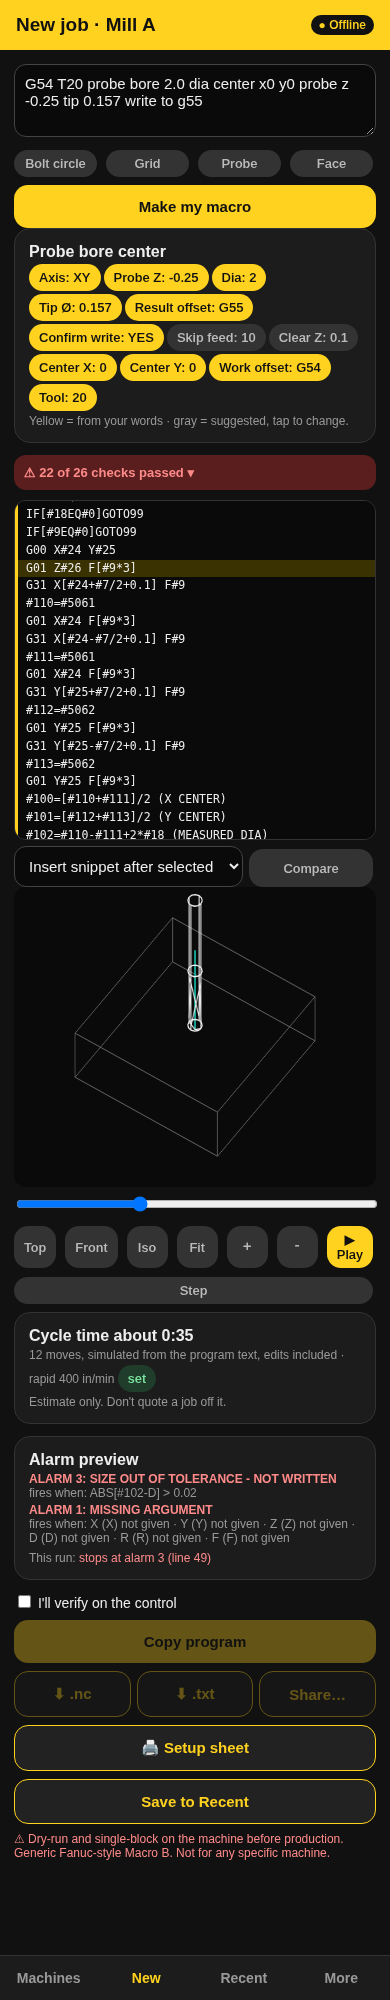
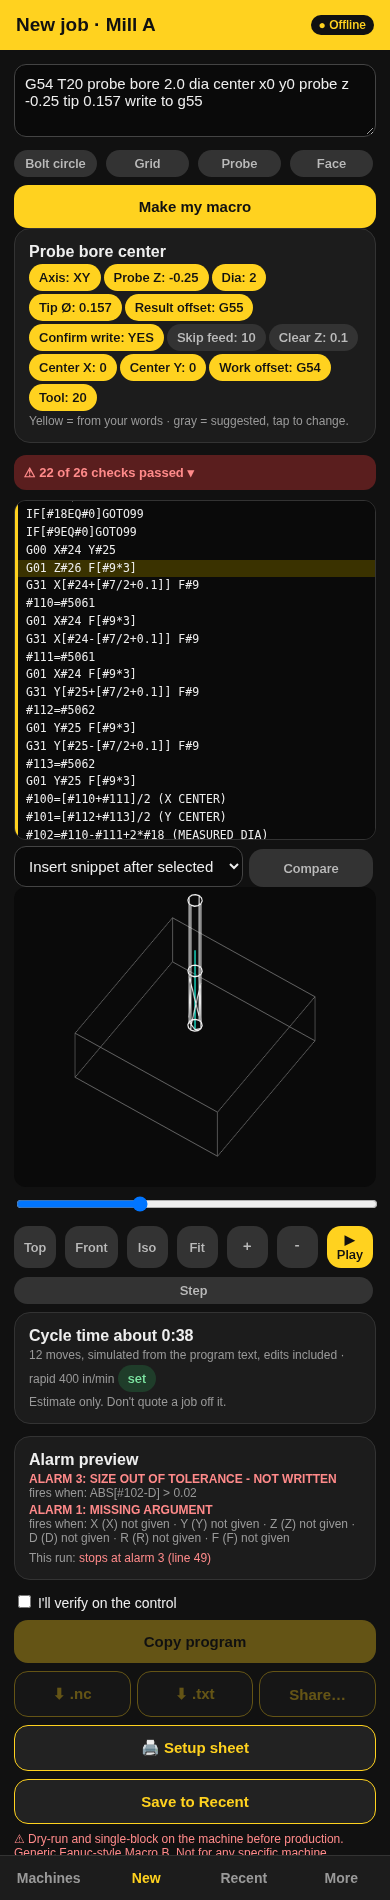
Fix bore probe minus-side G31 target; confirm-write button in need card

diff --git a/index.html b/index.html
@@ -418,7 +418,7 @@ function genP(j){const p=k=>j.p[k]?j.p[k].v:0,c=[],L=s=>c.push(s),wo=offCode(p('
  L('(PROBE OFF)');L('G91 G28 Z0. (SAFE END)');L('G90');L('M30');L('');
  const chk=a=>a.map(v=>`IF[#${v}EQ#0]GOTO99`).forEach(L);
  if(j.op=='pbore'){L('O9300 (BORE CENTER, 4 TOUCHES)');chk([24,25,26,7,18,9]);L('G00 X#24 Y#25');L('G01 Z#26 F[#9*3]');
-  [['X','+',5061],['X','-',5061],['Y','+',5062],['Y','-',5062]].forEach(([a,s],n)=>{L(`G31 ${a}[#${a=='X'?24:25}${s}#7/2+0.1] F#9`);L(`#${110+n}=#${a=='X'?5061:5062}`);L(`G01 ${a}#${a=='X'?24:25} F[#9*3]`)});
+  [['X','+',5061],['X','-',5061],['Y','+',5062],['Y','-',5062]].forEach(([a,s],n)=>{L(`G31 ${a}[#${a=='X'?24:25}${s}[#7/2+0.1]] F#9`);L(`#${110+n}=#${a=='X'?5061:5062}`);L(`G01 ${a}#${a=='X'?24:25} F[#9*3]`)});
   L('#100=[#110+#111]/2 (X CENTER)');L('#101=[#112+#113]/2 (Y CENTER)');L('#102=#110-#111+2*#18 (MEASURED DIA)');L('IF[ABS[#102-#7]GT0.02]GOTO98');L('G00 Z[#26+0.5]')}
  if(j.op=='psurf'){L('O9301 (SINGLE SURFACE)');chk([24,25,26,1,2,18,9]);L('G00 X#24 Y#25');L('G01 Z#26 F[#9*3]');L('#100=0');L('#101=0');
   L('IF[#1EQ1]THEN G31 X[#24+#2*0.5] F#9');L('IF[#1EQ2]THEN G31 Y[#25+#2*0.5] F#9');L('IF[#1EQ1]THEN #100=#5061+#2*#18');L('IF[#1EQ2]THEN #101=#5062+#2*#18');L('G01 X#24 Y#25 F[#9*3]');L('G00 Z[#26+0.5]')}
